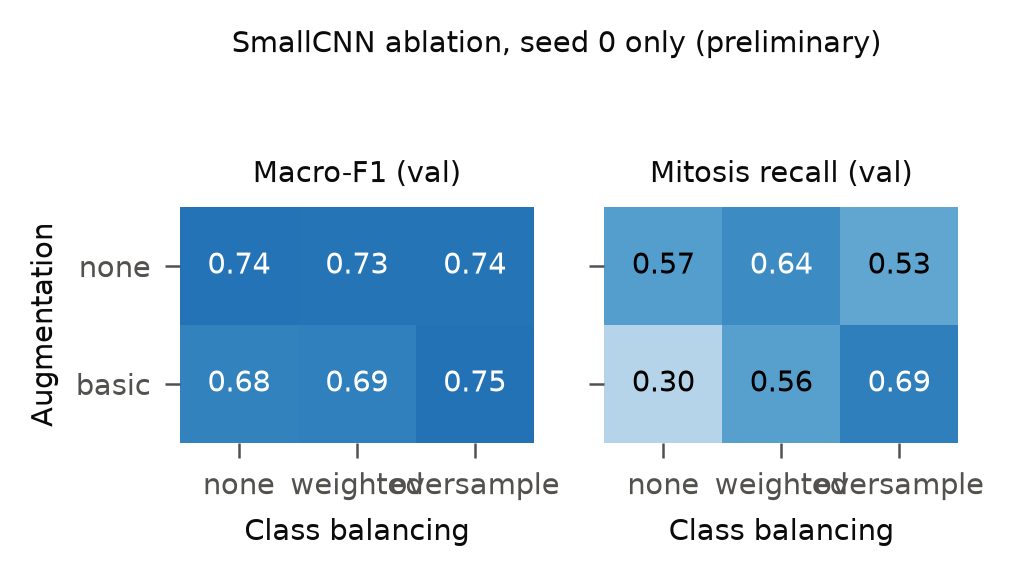
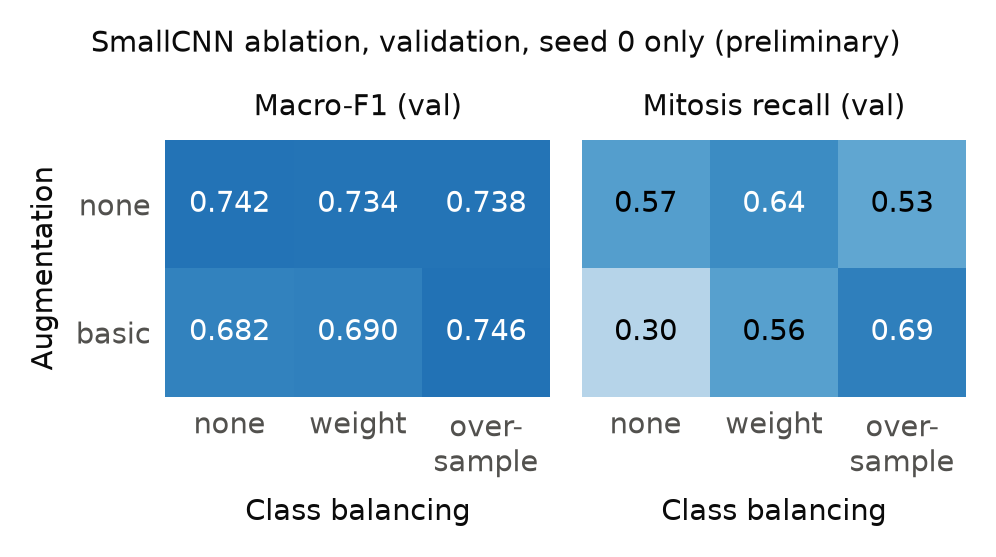
Ablation figure layout; correct ablation interpretation (aug + oversample = no aug)

diff --git a/scripts/fig_ablation.py b/scripts/fig_ablation.py
@@ -37,7 +37,7 @@ md += [f"| {r.augment} | {r.balance} | {r.macro_f1:.3f} | {r.balanced_accuracy:.
 print("\n".join(md))
 
 set_style()
-fig, axes = plt.subplots(1, 2, figsize=(ONE_COLUMN, 4.5 * CM), sharey=True)
+fig, axes = plt.subplots(1, 2, figsize=(ONE_COLUMN, 4.2 * CM), sharey=True)
 for ax, (col, title) in zip(axes, (("macro_f1", "Macro-F1"), ("recall_mitosis", "Mitosis recall"))):
     grid = np.full((len(AUGMENTS), len(BALANCES)), np.nan)
     for r in table.itertuples():
@@ -46,13 +46,15 @@ for ax, (col, title) in zip(axes, (("macro_f1", "Macro-F1"), ("recall_mitosis", 
     for i in range(len(AUGMENTS)):
         for j in range(len(BALANCES)):
             if not np.isnan(grid[i, j]):
-                ax.text(j, i, f"{grid[i, j]:.2f}", ha="center", va="center",
+                ax.text(j, i, f"{grid[i, j]:.3f}" if col == "macro_f1" else f"{grid[i, j]:.2f}", ha="center", va="center",
                         color="white" if grid[i, j] > 0.6 else "black")
-    ax.set_xticks(range(len(BALANCES)), BALANCES)
+    ax.set_xticks(range(len(BALANCES)), ["none", "weight", "over-\nsample"])
+    ax.tick_params(length=0)
     ax.set_xlabel("Class balancing")
     ax.set_title(f"{title} (val)")
     ax.spines[:].set_visible(False)
 axes[0].set_yticks(range(len(AUGMENTS)), AUGMENTS)
 axes[0].set_ylabel("Augmentation")
-fig.suptitle("SmallCNN ablation, seed 0 only (preliminary)", fontsize=7, y=1.05)
+fig.suptitle("SmallCNN ablation, validation, seed 0 only (preliminary)", fontsize=7)
+fig.tight_layout()
 save(fig, "ablation_val")

diff --git a/notes/paper_draft/results_val_draft.md b/notes/paper_draft/results_val_draft.md
@@ -35,13 +35,13 @@ Six SmallCNN runs crossed augmentation (none / basic) with class balancing (none
 
 Mitosis recall: without augmentation 0.57 / 0.64 / 0.53; with augmentation 0.30 / 0.56 / 0.69.
 
-Training *without* augmentation gave a higher macro-F1 (0.734–0.742) than the setting used for all final runs (basic augmentation with weighted loss, 0.690). That difference is far larger than the seed SD of SmallCNN (0.006). With augmentation, balancing mattered: without it, mitosis recall fell to 0.30. Without augmentation, balancing changed little.
+Training *without* augmentation gave a higher macro-F1 (0.734–0.742) than the setting used for all final runs (basic augmentation with weighted loss, 0.690). That difference is far larger than the seed SD of SmallCNN (0.006). Augmentation combined with oversampling, however, reached the same level (0.746) and had the highest mitosis recall (0.69). With augmentation, balancing mattered: without it, mitosis recall fell to 0.30. Without augmentation, balancing changed little. The setting fixed before tuning (basic + weighted) was thus one of the weakest combinations.
 
 *Why augmentation can hurt here (extra check, `scripts/orientation_check.py`).* Our augmentation assumes that a cell image has no preferred orientation. For the darkfield channel this is false: the left half of the image is brighter than the right half in 81% of training images, against 45% for brightfield. The side-scatter light presumably reaches the camera from one direction (instrument geometry, [CHECK: confirm with the BBBC048 / ImageStream description]). The model trained without augmentation uses this direction. On left-right-flipped validation images its macro-F1 fell from 0.742 to 0.608, and its mitosis recall from 0.57 to 0.16. On images flipped top to bottom it fell only to 0.710. The augmented model scored the same on all flipped and rotated images (0.681–0.698). Because the direction is a property of the instrument and identical in all images, it is information the model may legitimately use, not leakage. But 90° rotations and left-right flips remove it.
 
 These results are preliminary: one seed, and the hyperparameters were tuned with augmentation switched on.
 
-*Take-home (Fig. ablation_val):* the rotation/flip augmentation removes a real directional signal in the darkfield images, and on validation SmallCNN does better without it.
+*Take-home (Fig. ablation_val):* the rotation/flip augmentation removes a real directional signal in the darkfield images. Without augmentation, or with augmentation plus oversampling, SmallCNN reached about 0.74 validation macro-F1, against 0.69 for the setting used in all final runs. With one seed, which choice is best remains open.
 
 ## RQ4 — Is the continuous cell cycle visible in the learned features?
 

diff --git a/notes/overnight_log.md b/notes/overnight_log.md
@@ -33,3 +33,4 @@ Branch `overnight-2026-10-25`. All numbers are VALIDATION numbers. Test split ne
 | 04:17 | Phase-5 figures remade at 04:12–04:15 with best CNN = ResNet18-pretrained (by mean 4-class val F1) | UMAP: ResNet embedding gives the clearest arc G1 → S → G2 → mitosis. Pseudotime ρ: hand-crafted 0.45, SmallCNN 0.83, ResNet-pre 0.86 (the 4-class ρ equals the 7-class ρ to 3 decimals: checked, not a bug; only 16 val cells differ between the labelings). ResNet Grad-CAM: heat on the cell for all phases (in mask 0.36–0.49 vs area 0.11–0.19; border 0.06–0.12 vs 0.43): no S-phase border pattern. Odd: for G1/S/G2 the heat often peaks at the same lower-right spot regardless of cell orientation: probably the coarse 4×4 grid, untested → report. fig_gradcam.py got `--model/--device` so the SmallCNN maps stay reproducible (`_smallcnn` files, CPU run; numbers identical to the interim ones). | ablation running |
 | 04:31 | RQ3 ablation done (SmallCNN, seed 0, val) | none/none 0.742, none/weighted 0.734, none/oversample 0.738, basic/none 0.682, basic/weighted (= final s0) 0.690, basic/oversample 0.746. **No augmentation beats our fixed setting (basic + weighted) by ≈ 0.05, far above the seed SD (0.006).** Not a leak (no val > 0.98), so I investigated. | orientation check |
 | 04:33 | EXTRA: scripts/orientation_check.py (CPU, val) | Darkfield images have a fixed left/right direction: left half brighter in 80.9% of training images (BF: 44.7%, no preference). The no-augmentation model uses it: macro-F1 0.742 → 0.608 on left-right-flipped val images (mitosis recall 0.57 → 0.16), → 0.580 at 180°, but only → 0.710 on up-down flips. The augmented final model is unchanged under all flips/rotations (0.681–0.698). → Our assumption "a cell has no up" is wrong for the IMAGE: side scatter comes from one side (instrument geometry, same for all images, so a real signal, not leakage). Rotations/left-right flips remove it. **Main decision for the user** (augmentation choice affects all CNN results). Not re-run tonight: the GPU is busy with the planned learning curve, and changing the augmentation would mean re-tuning all families. | wait for LC |
+| 04:37 | fig_ablation layout fixed (labels, title says validation, 3 decimals). Correction to 04:31: basic + oversample (0.746) is as good as no augmentation; so "augmentation hurts" holds only with weighted loss / no balancing. Draft text corrected. | |
